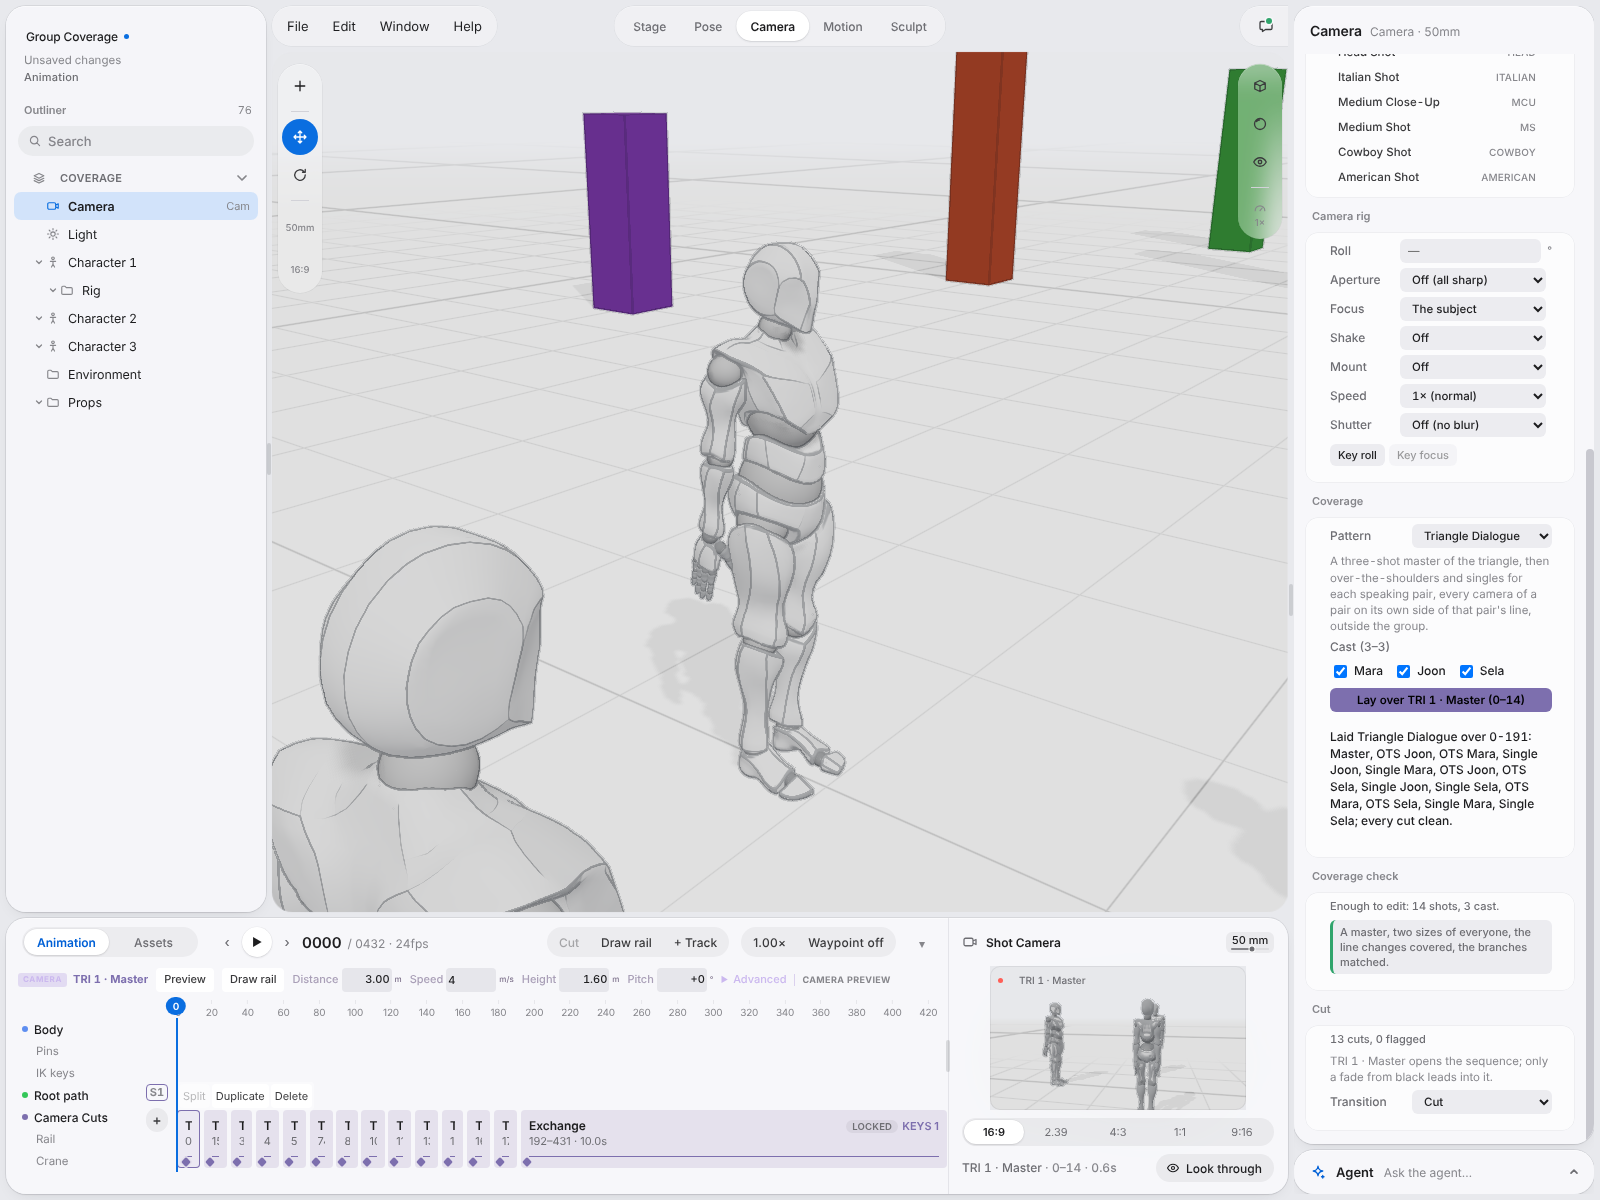
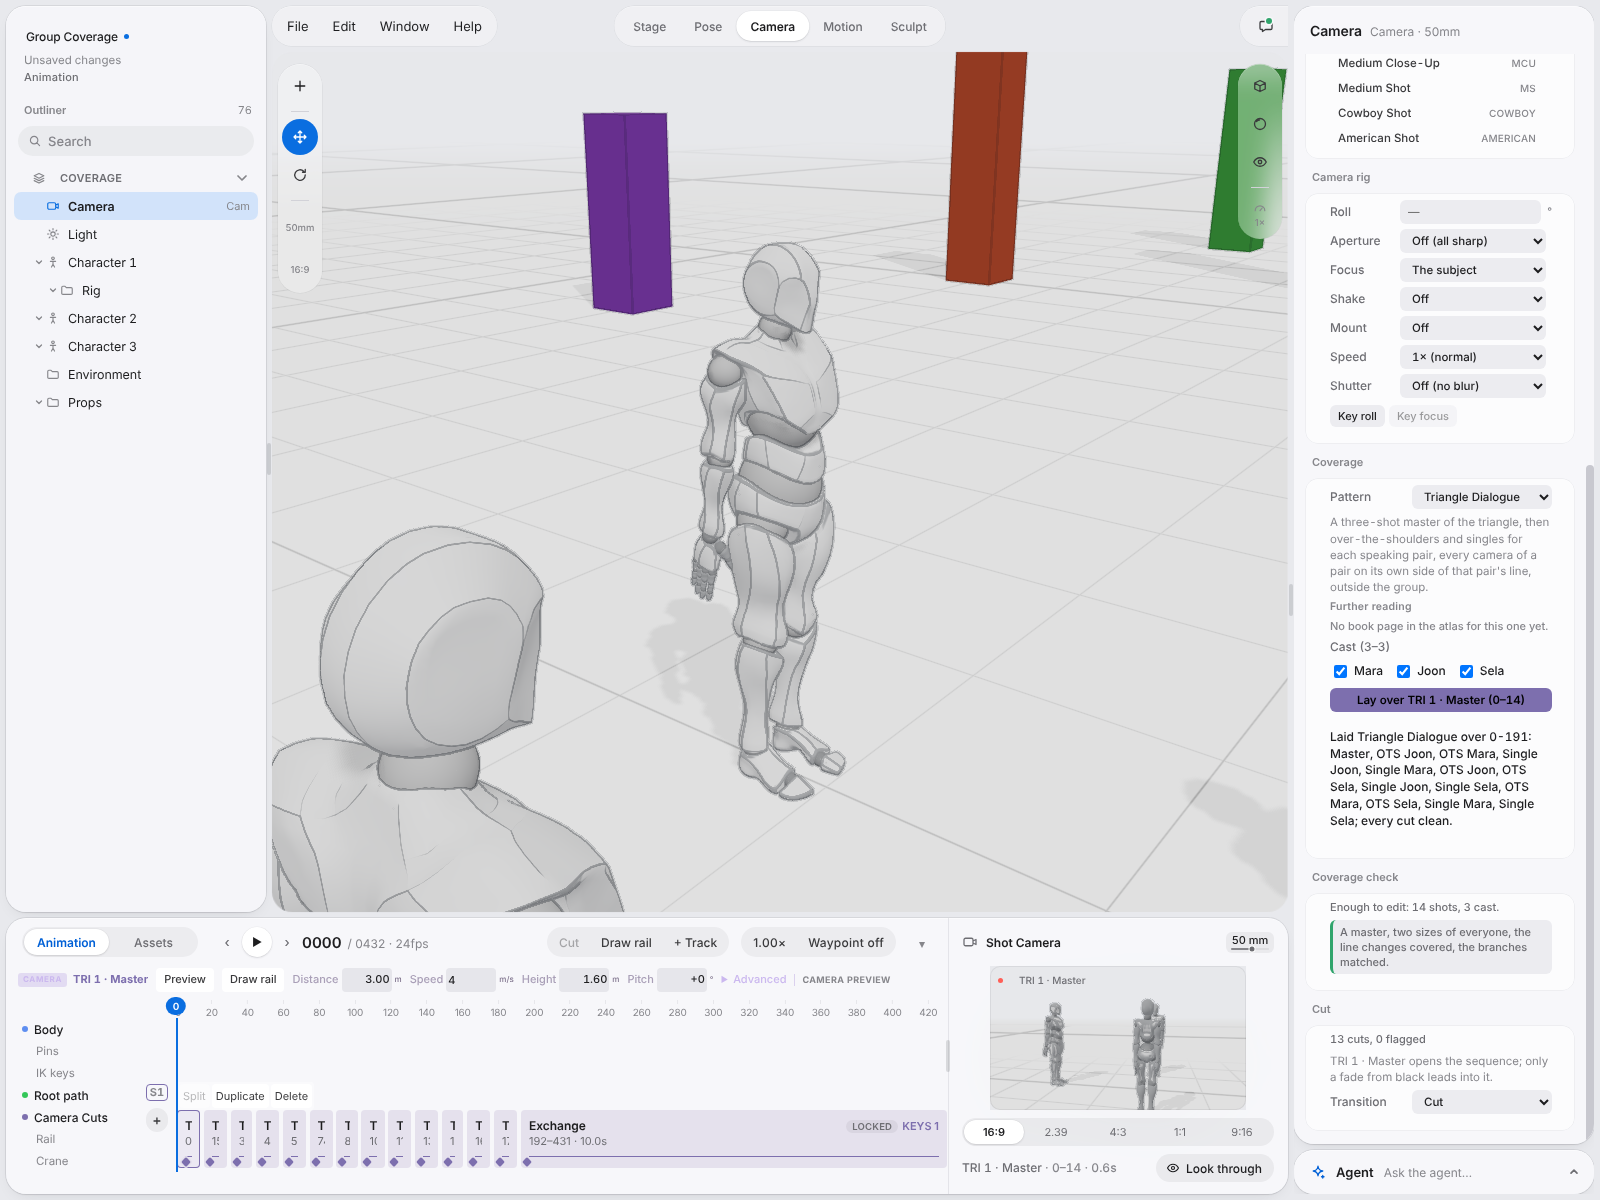
docs(intent): group-coverage progress, gates and F-1 (intent group-coverage)
Claude-Session: https://claude.ai/code/session_01N1UXbjobThM1JqhaCA4ytH

diff --git a/docs/intent/group-coverage/progress.md b/docs/intent/group-coverage/progress.md
@@ -2,23 +2,41 @@
 
 - Working under rev: 1
 - Worker: cloud worker agent (group-coverage)
-- Current step: A1 explicit line (`camera.setLine`, D1 pair choice in the cut rules)
-- Next step: A2 group patterns
+- Current step: done; every item met or ready for review (A7 suite line below)
+- Next step: orchestrator review (A4 ui:shot, A8 docs), PR
 - PR: none yet
 
 ## Acceptance
 
 | Item | Verdict | Evidence |
 | --- | --- | --- |
-| A1 | open | |
-| A2 | open | |
-| A3 | open | |
-| A4 | open | |
-| A5 | open | |
-| A6 | open | |
-| A7 | open | |
-| A8 | open | |
+| A1 | met (gate) | `node test/verify-camera-cut-rules.mjs` -> `10 checks passed`, incl. "three people: the line is the pair the shots are about...", "...when the pair cannot be told the report says so...; two authored pairs are a line change", "three people, D2: a line change through a neutral shot or through an in-shot move is legal; the same cut straight across is flagged", "zero false flags: the group patterns over five blockings and two ranges cut clean". `camera.setLine` in `test/bus/verify-group-coverage.mjs` ok 5. Commit 3f0c61a5 |
+| A2 | met (gate) | `node test/bus/verify-group-coverage.mjs` -> ok 1-5 (triangle 13 shots, group-singles 3 and 6, branching 3 branches, refusals, setLine + undo); shot counts, ranges, stacks, sides per pair, one undo entry, 0 cut flags. Commit 3f0c61a5 |
+| A3 | met (gate) | `node test/verify-camera-coverage-check.mjs` -> `6 checks passed` (complete: triangle, group-singles, branching x2 and x3, master-coverage; gapped: no master, one size, line change without bridge, pair from both sides, branch missing/moved setup; every gap a technique stack; bus `camera.checkCoverage` read only). Commit 3f0c61a5 |
+| A4 | met (ui:qa); ui:shot ready for review | `QA_CHROME_FLAGS='--no-sandbox --proxy-server=http://127.0.0.1:8444 --ignore-certificate-errors' COZYCLAY_LIVE_PORT=5309 CDP_PORT=9309 QA_URL=http://127.0.0.1:5209/app/ CHROME_PATH=/opt/pw-browsers/chromium QA_SHOT_DIR=docs/intent/group-coverage/proofs node tools/qa-browser.mjs -- node test/verify-group-coverage-browser.mjs` exit 0, "group coverage browser QA passed" (after the main merge too). Proofs: `docs/intent/group-coverage/proofs/coverage-group-controls.png`, `docs/intent/group-coverage/proofs/contact-triangle-dialogue.png`. Commits 15a15b5c, df04d8b5 |
+| A5 | met (gate) | `node mcp/verify-camera-coverage.mjs` -> `21 passed, 0 failed`; `node test/verify-director-evals.mjs` -> core 86/86 (10 new core rows: 7 coverage, 3 cuts); `node mcp/verify-director-evals.mjs` -> `79 passed, 0 failed`; `node test/verify-camera-coverage-resolve.mjs` -> `5 checks passed`; MCP 33 tools (`mcp/verify.mjs`, tool-annotations, tool-handlers). Commit 9554e8b0 |
+| A6 | met (gate) | `node test/bus/verify-sequence-prompt.mjs` -> ok 4 "with three cast the continuity line names each pair's line, byte-identical across runs". Commit 9554e8b0 |
+| A7 | met (gate, known exception) | lint exit 0 (0 new / 0 violations / 0 regressions), build exit 0, `SUITE-ALL: 462 files, 459 passed, 3 failed`: the two timing checks plus a spawn timeout in verify-final-suite-compatibility that passes alone (Steps 6) |
+| A8 | ready for review | `mcp/README.md` (33 tools, cover_scene group cast/branches, check_coverage row, line paragraph), `docs/agent-cli.md` (examples, group paragraph), `docs/studio-ui-ia.md` (cast checkboxes, Branches, Coverage check), `CHANGELOG.md` Unreleased > Camera. Commit e3e34a1e |
 
 ## Steps
+
+1. A1-A3 core (3f0c61a5): `src/camera-coverage/cut-line.js` (D1 pair choice), `patterns-group.js`, `plan-group.js`, `completeness.js`, `src/commands/camera-coverage-group.js` (`camera.setLine`, `camera.checkCoverage`); cut rules judge per pair. Evidence in the table.
+2. A5/A6 agents, evals, brief (9554e8b0): resolver rules, MCP `cover_scene` cast <= 6 + `branches`, `check_coverage`; 10 core eval rows; `continuity-group.js`.
+3. A4 UI (15a15b5c): cast checkboxes, Branches, `CoverageReadout.jsx`; `test/verify-group-coverage-browser.mjs` registered in `tools/run-tests.mjs` BROWSER_FILES, `test/verify-camera-coverage-check.mjs` in NODE_FILES. QA needs the container's jsdelivr stub flags (worker-common).
+4. A8 docs (e3e34a1e).
+5. Merged origin/main 513ab7bf (df04d8b5): conflicts in CHANGELOG, CoveragePanel (FurtherReading + readout both kept), run-tests lists (both kept). Group patterns listed in `NO_REFERENCES.patterns` and the references generator count 71 -> 74 (F-1). Reran the key gates and the browser QA: all pass.
+6. A7 gates: `npm run lint` exit 0 (knip 0 new, 1 fixed; loc 0 violations; eslint 0 regressions; no baseline changed); `npm run build` exit 0; suite (`env -u AWS_ACCESS_KEY_ID -u AWS_SECRET_ACCESS_KEY -u AWS_CA_BUNDLE node /home/claude/local-tools/suite-all.mjs --jobs 4`, after the main merge, no dev server): `SUITE-ALL: 462 files, 459 passed, 3 failed` - the two known timing checks (`test/motion3/verify-motion3-exitcar.mjs` 4896 ms CPU, `test/motion3/verify-motion3-repair.mjs` 22509 ms) and `test/bus/verify-final-suite-compatibility.mjs` (`spawnSync node ETIMEDOUT` under the shared-CPU load; rerun alone: `# fail 0`, exit 0).
+
+## Decisions
+
+- D1 as built: pair = authored `shot.line`, else the two subjects when they differ, else subject + gaze target (within 60 deg, a tie within 10 deg is unclear). Unclear is reported (`measures.line.unclear`), never guessed. Two different pairs across a cut are a line change (`measures.line.change`), not a crossing; the eyeline rule is skipped there.
+- D2: sides are read at the cut frames only, so an in-shot move across the line is legal; a neutral (within 0.2 m of the line) or a cutaway shot clears a crossing in the coverage check.
+- Group patterns live in `patterns-group.js`; `COVERAGE_PATTERNS` stays the six two-person ones (existing tests unchanged), `ALL_COVERAGE_PATTERNS` / `COVERAGE_PATTERN_IDS` span all.
+- Each pair's side is outside the group (away from the others); a triangle tries the six member orders and keeps the first that cuts with 0 flags. A near-collinear trio can still raise an eyeline flag: a staging limit, reported by the plan's notes.
+- `camera.setLine` is a single write, so its receipt has no `output`; matched words and confidence ride in `checks` (protocol checks schema extended additively).
+- Group plans put brief cuts (no measures) in the receipt to stay under 8 KiB.
+- Command registry 127 -> 129 actions; MCP 32 -> 33 tools. Studio agent prompt untouched (13,355 of 13,400): the new actions are reached through action descriptions and the router.
+- Merge risks for camera-motivation: `test/bus/verify-command-registry.mjs` count, director-evals CAST (adds sela) and apply harness, `src/studio-agent-protocol.js` checks fields, `tools/run-tests.mjs` lists.
 
 ## Reconciliations

diff --git a/docs/intent/group-coverage/findings.md b/docs/intent/group-coverage/findings.md
@@ -1,3 +1,16 @@
 # Group Coverage: Findings
 
 Discoveries that may change the intent. The worker adds entries; the orchestrator resolves them.
+
+## F-1: the group patterns have no atlas citations yet (open, not blocking)
+
+Merging #12 (technique-references) made every coverage pattern need a reference or a "none" listing
+(`test/verify-technique-references.mjs`). `src/camera-references/data.js` is generated from a local
+cinematic-atlas checkout this container does not have, so `triangle-dialogue`, `group-singles` and
+`branching-dialogue` are listed in `NO_REFERENCES.patterns` (what `tools/atlas-refs.mjs` writes for an
+id with no table row) and the generator's fixture count moved from 71 to 74 "without". The panel
+shows "No book page in the atlas for this one yet." for them.
+Options: (a) leave as none; (b) the owner adds rows for the three ids to `tools/atlas-refs-table.mjs`
+(three-person and group staging, branching or alternate takes) and reruns
+`ATLAS_DIR=<atlas> node tools/atlas-refs.mjs`. Recommendation: (b) when the atlas is at hand; no page
+numbers were invented here.
